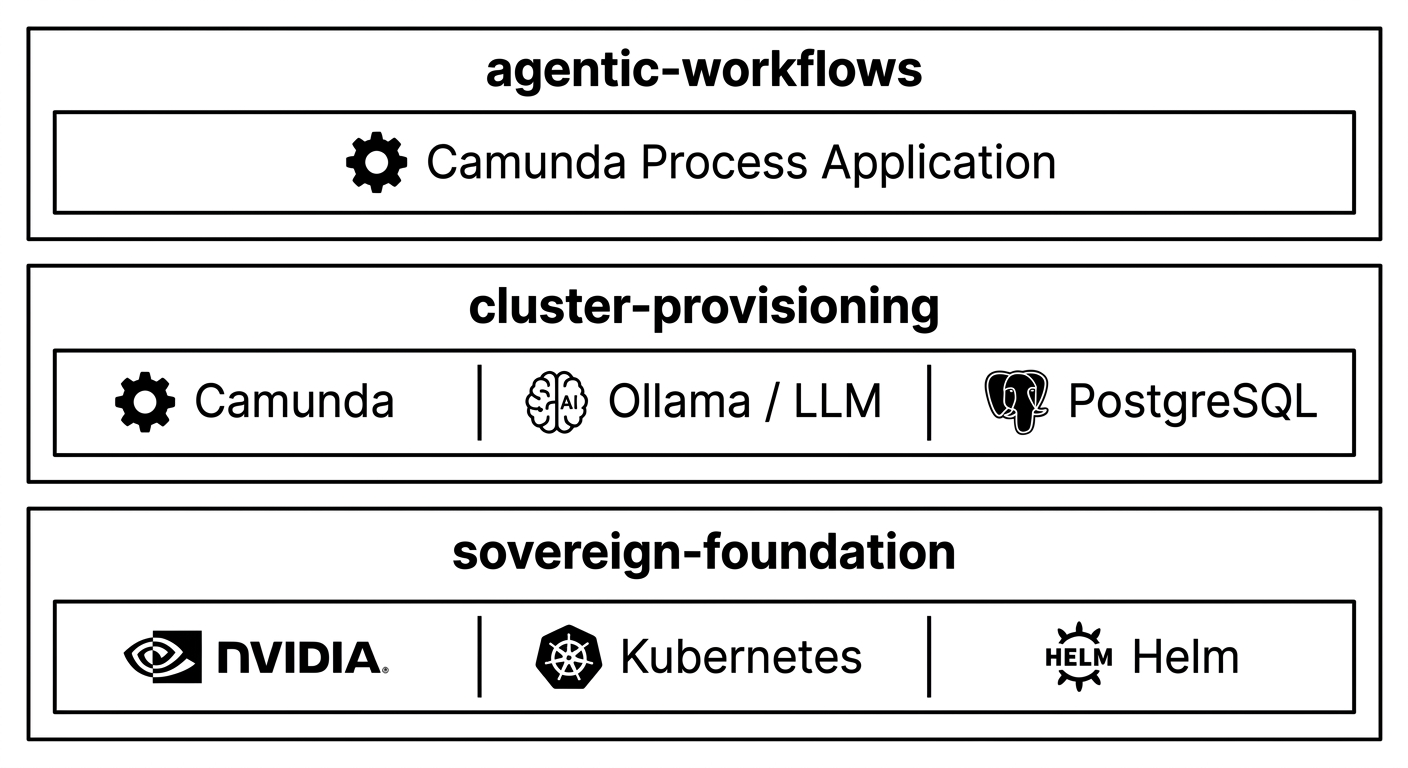
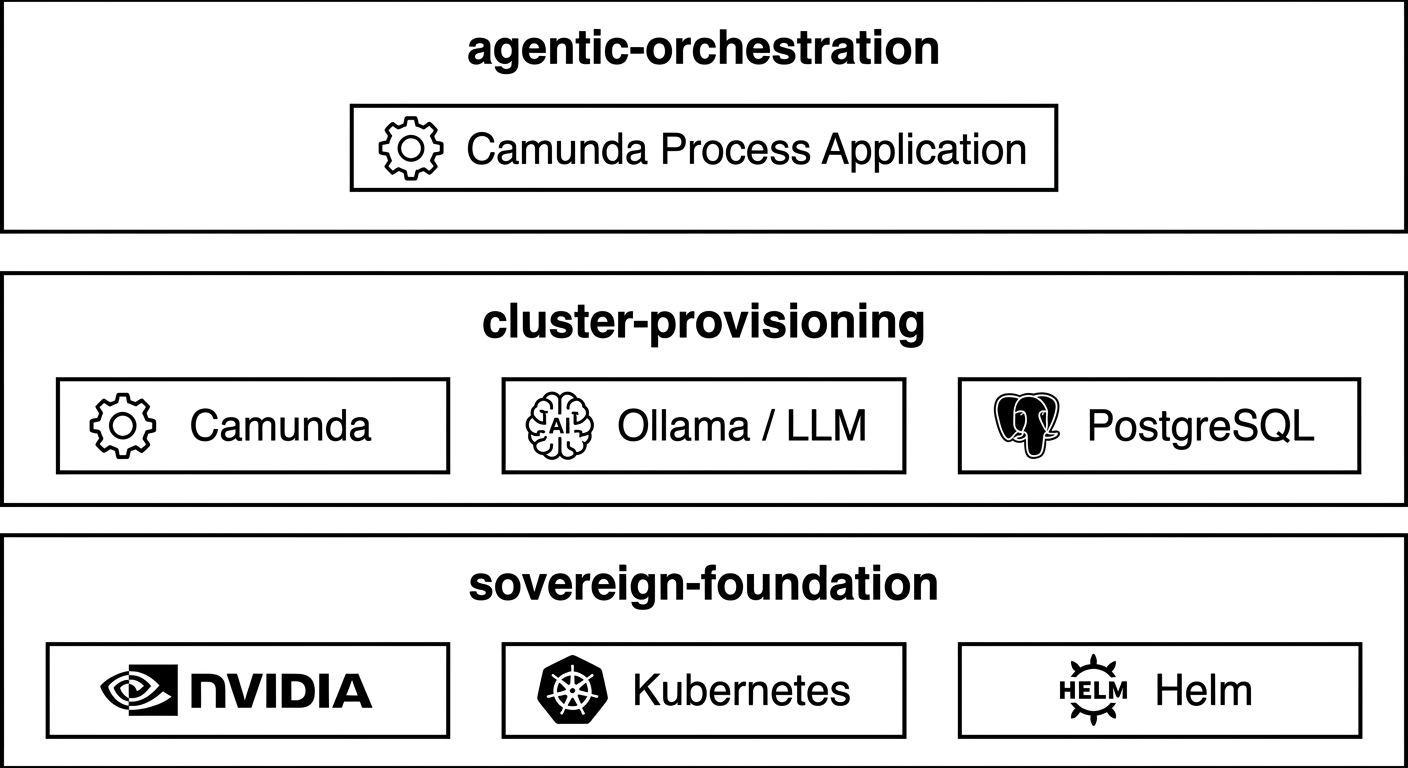
docs: change summary, rename workflows to orchestration

Changed region(s): [[0.0, 0.0, 1.0, 1.0]]

diff --git a/README.md b/README.md
@@ -1,16 +1,19 @@
 # Sovereign Camunda Agent Lab 🚀
 
-<p align="center">
-  <img src="docs/jetson.jpg" alt="Jetson Orin Nano" width="380" style="vertical-align: middle; max-width: 100%;" />
-  <img src="docs/target-architecture.jpeg" alt="Target Architecture Diagram" width="380" style="vertical-align: middle; max-width: 100%;" />
+* <p align="left">
+  <a href="docs/sovereign-camunda-agent-lab" target="_blank" rel="noreferrer">
+    <img src="docs/jetson.jpg?raw=true" alt="Jetson Orin Nano" height="240" style="opacity: 0.8; margin-right: 12px;"/>
+  </a>
+  <a href="docs/sovereign-camunda-agent-lab" target="_blank" rel="noreferrer">
+    <img src="docs/target-architecture.jpeg?raw=true" alt="Architecture" height="240" style="opacity: 0.8; margin-right: 12px;"/>
+  </a>
 </p>
 
 ## ⚡ Summary
 
-* Lightweight, ephemeral DevOps lab for rapidly spinning up a Camunda 8 Agentic AI process application together with an LLM provider on Jetson Orin Nano. 
-* Designed to run and observe workflows like provisioning and scaling on Kubernetes or optimizing Agentic AI Tool Calls.
-* Monorepo built on core enterprise patterns, including NVIDIA GPU Acceleration, Self-Managed Camunda, local LLMs, Provisioning, Air-gapped Data Sovereignty, and Agentic AI Observability.
-* Designed for the NVIDIA Jetson Orin Nano (Debian-based edge device), assuming a dedicated device that can be easily wiped and reprovisioned.
+* Lightweight, ephemeral DevOps lab for rapidly spinning up a Camunda 8 Agentic AI process application together with an LLM provider on Jetson Orin Nano.
+* Provision & operate enterprise-grade Camunda 8 with Agentic Tool Calls to LocalLLM on K8s within minutes on your desk, no Internet connection needed during runtime and also no Token Budget.
+* Optimized for the NVIDIA Jetson Orin Nano, a compact and cost-effective device that can be easily wiped and reprovisioned. It enables quiet, low-energy operation and is perfectly suited for portable, on-site demonstrations in air-gapped environments.
 
 **Table of Contents**
 * [⚡ Summary](#-summary)
@@ -19,7 +22,7 @@
 * [📋 Prerequisites](#-prerequisites)
 * [🏗 Sovereign Foundation](#-sovereign-foundation)
 * [♾ Cluster Provisioning](#cluster-provisioning)
-* [⚙ Agentic Workflows](#agentic-workflows)
+* [⚙ Agentic Orchestration](#agentic-orchestration)
 
 ---
 
@@ -27,7 +30,7 @@
 
 - **Sovereign Foundation:** under test
 - **Cluster Provisioning:** under development
-- **Agentic Workflows Process:** planned
+- **Agentic Orchestration:** planned
 
 ---
 
@@ -36,18 +39,23 @@
 While this Lab serves as a rapid local DevOps lab for the enterprise patterns listed above, certain other enterprise patterns are currently simplified:
 
 * **Host-Level Bootstrapping:** Installation scripts currently modify host configurations directly (e.g., Docker daemon, CNI).
-* **Enterprise Limitations:** No GitOps (only Helm), No Prometheus/Grafana (only simple statistics planned). 
+* **Enterprise Limitations:** No pg_admin (only some queries), No GitOps (only Helm), No Prometheus/Grafana (only Victoriametrics, kube metrics), No Operate/Tasklist (only some queries), No Optimize.
 * **Resource Constraints (Edge):** Camunda 8 together with local LLMs requires significant memory. Edge profile requires aggressive resource tuning to avoid OOM issues.
 
 ---
 
 ## 📋 Prerequisites
+
+### Jetson OS
 - **OS:** Debian-based Linux with NVIDIA Drivers & CUDA Toolkit installed (can be verified by running `nvidia-smi`).
 - **Package Manager:** `apt` is available.
 - **Basic Tools:** `curl`, `git`, `gpg`, `sed` are installed.
-- **Kubernetes Tools:** `kubectl` is installed and available in your PATH.
+
+### Additional
+- **Kubernetes Tools:** `kubectl`, also put in PATH.
+- **Dev Tools:** `maven`.
 - **Connectivity:** Internet access is required during the bootstrap process.
-- **Repository:** You cloned the repo:
+- **Repository:** Please clone this repo:
 ```bash
 git clone https://github.com/kj-hilger/sovereign-camunda-agent-lab.git
 ```
@@ -103,8 +111,9 @@ chmod +x ./sovereign-foundation/k3s-uninstall.sh  # **⚠ deletes all content
 
 ## ♾Cluster Provisioning
 
-* Manifest Helm-Charts and scripts to install Camunda 8 (including Camunda Agentic AI Connector, PostgreSQL) and Ollama (including local LLM) self-managed on top of the Sovereign Foundation layer. 
-* You have air-gapped Data Sovereignty at runtime.
+* Manifest Helm-Charts and scripts to provision the cluster self-managed on top of the Sovereign Foundation layer.
+* Camunda 8 (minimal cluster size, without Camunda Admin, but including Camunda Agentic AI Connector), PostgreSQL and Ollama (including minimal local LLM Qwen 2.5 0.5b).
+* You enjoy air-gapped Data Sovereignty at runtime.
 
 ### Bootstrap
 
@@ -131,6 +140,10 @@ chmod +x ./cluster-provisioning/bootstrap.sh
 * To perform changes in the configuration, modify the values.yaml files and execute uninstall and bootstrap again.
 
 
+### Change Cluster
+* You can change the values.yaml files, delete all and run bootstrap again (with new values).
+
+
 ### Delete All
 
 ```bash
@@ -140,7 +153,7 @@ chmod +x ./cluster-provisioning/uninstall.sh
 
 ---
 
-## ⚙Agentic Workflows
+## ⚙Agentic Orchestration
 
 * Leverages Camunda 8 Deterministic Orchestration to manage agentic decision flows, ensuring full process visibility, execution logging and Observability. 
 * The BPMN Pattern Agentic AI as Subprocess together with a human task ensures "Human-in-the-Loop".
